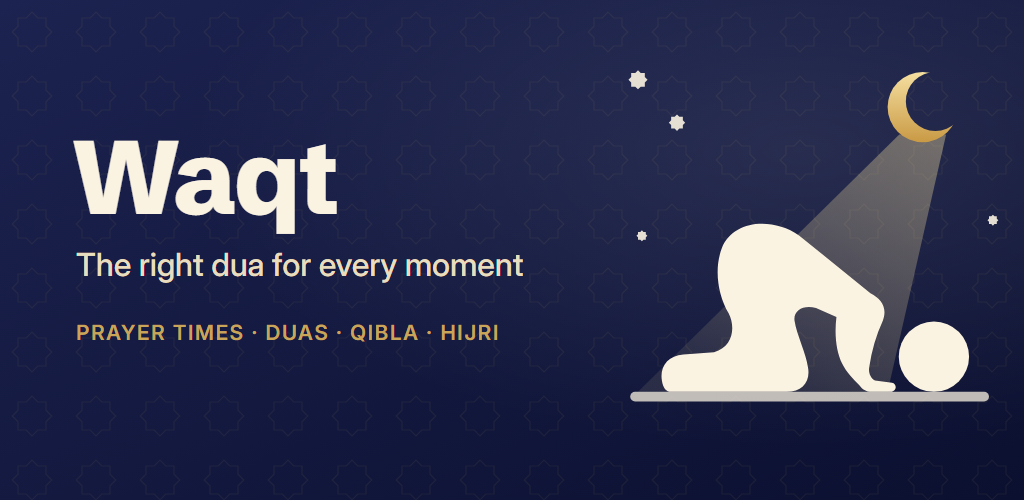
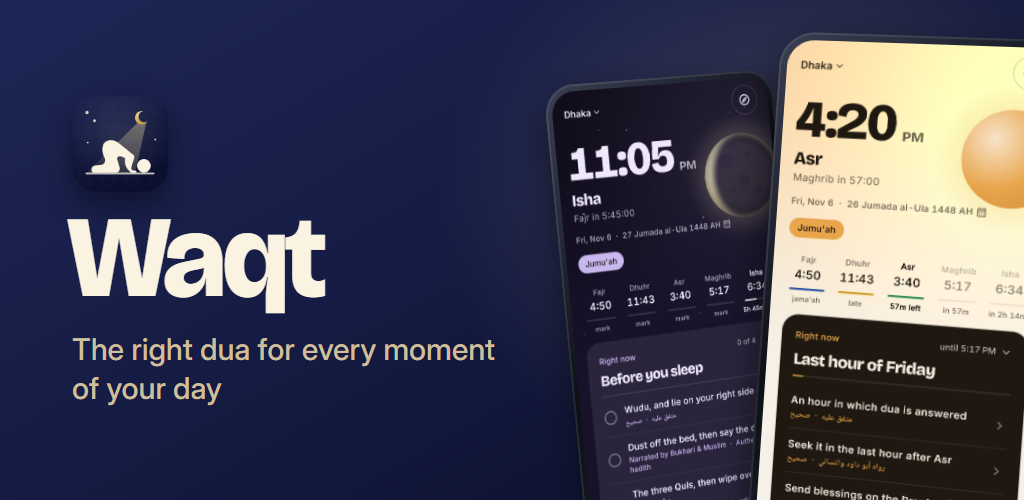
Play Store art: Bricolage feature graphic and fresh screenshots with angled phones

diff --git a/tool/brand/store_screens.py b/tool/brand/store_screens.py
@@ -1,56 +1,107 @@
-"""Play Store phone screenshots: a caption over a real app screen (from the golden tests), 1080x1920.
+"""Play Store art: the feature graphic (1024x500) and phone screenshots (1080x1920), built around real
+app screens from the golden tests, some shown as angled 3D phones.
 
     flutter test --tags screenshots --update-goldens   # refresh the app screens first
     python tool/brand/store_screens.py
 
-Output: docs/store/screenshots/NN_name.png
+Output: docs/store/feature-graphic.png, docs/store/screenshots/NN_name.png
+The app icon is not touched here (see waqt_icon.py).
 """
 import sys
 from pathlib import Path
 
 sys.path.insert(0, str(Path(__file__).parent))
-from waqt_icon import ROOT, render, lattice, NAVY_TOP, NAVY_BOTTOM, CREAM, GOLD_LINE  # noqa: E402
+from waqt_icon import ROOT, render  # noqa: E402
 
 GOLDENS = ROOT / 'test/screenshots/goldens'
 OUT = ROOT / 'docs/store/screenshots'
+STORE = ROOT / 'docs/store'
 
+NIGHT = ('#1E2656', '#0A0E2A', '#FBF3E2', '#CDBF9C')  # top, bottom, title, subtitle
+DAWN = ('#F7E7C8', '#EFD3A6', '#1C1814', '#5E5240')
+
+# (title, subtitle, palette, layout, screens)
 SHOTS = [
-    ('12_now_last_third', 'The right dua', 'for the moment you are in'),
-    ('17_dua_sheet', 'Every hadith sourced', 'with its book, number and grade'),
-    ('11_today_timeline', 'Your whole day', 'every prayer and moment, in order'),
-    ('21_now_ramadan_qadr', 'Ramadan, made easy', 'suhoor, iftar, the last ten nights, Eid'),
-    ('30_qibla_turn', 'Find the Qibla', 'turn until it glows'),
-    ('22_counter', 'A tasbih that remembers', 'your count and today\'s total'),
-    ('63_calendar', 'Hijri calendar', 'with the days worth knowing'),
-    ('07_now_arabic_rtl', 'In seven languages', 'English, العربية, اردو, বাংলা and more'),
+    ('The right dua, right now', 'for the moment you are in', NIGHT, 'tilt', ['40_now_salah_ticks']),
+    ('Changes with the sky', 'from Fajr to the last third of the night', DAWN, 'pair', ['03_now_dhuhr', '12_now_last_third']),
+    ('Every hadith sourced', 'book, number and grade, every time', NIGHT, 'straight', ['17_dua_sheet']),
+    ('Track your salah, gently', 'one tap a prayer, no guilt', DAWN, 'pair', ['42_today_ring', '43_progress']),
+    ('Ramadan, made easy', 'suhoor, iftar and the last ten nights', NIGHT, 'tilt-r', ['21_now_ramadan_qadr']),
+    ('Find the Qibla', 'turn until it glows', NIGHT, 'straight', ['30_qibla_turn']),
+    ('A tasbih that remembers', 'your count and today\'s total', DAWN, 'tilt', ['22_counter']),
+    ('In seven languages', 'English, العربية, اردو, বাংলা and more', NIGHT, 'pair', ['07_now_arabic_rtl', '30_now_bn']),
 ]
 
 
-def frame(img: Path, title: str, sub: str) -> str:
-    inter = (ROOT / 'assets/fonts/Inter.ttf').as_uri()
-    disp = (ROOT / 'assets/fonts/SchibstedGrotesk.ttf').as_uri()
-    naskh = (ROOT / 'assets/fonts/NotoNaskhArabic.ttf').as_uri()
-    nast = (ROOT / 'assets/fonts/NotoNastaliqUrdu.ttf').as_uri()
-    beng = (ROOT / 'assets/fonts/NotoSansBengali.ttf').as_uri()
-    w, h = 702, 1520
-    return f'''<div style="position:relative;width:1080px;height:1920px;overflow:hidden;
-  background:linear-gradient(160deg,{NAVY_TOP},{NAVY_BOTTOM});font-family:Inter,Naskh,Nast,Beng">
-<style>
-@font-face{{font-family:Inter;src:url("{inter}")}}@font-face{{font-family:Disp;src:url("{disp}")}}
-@font-face{{font-family:Naskh;src:url("{naskh}")}}@font-face{{font-family:Nast;src:url("{nast}")}}@font-face{{font-family:Beng;src:url("{beng}")}}
-</style>
-<svg width="1080" height="1920" viewBox="0 0 1080 1920" style="position:absolute;inset:0">{lattice(GOLD_LINE, .07, -32, 1150, -32, 1990)}</svg>
-<div style="position:absolute;left:0;right:0;top:120px;text-align:center;color:{CREAM};font-family:Disp,Naskh;font-weight:800;font-size:76px;letter-spacing:-2px">{title}</div>
-<div style="position:absolute;left:0;right:0;top:222px;text-align:center;color:#D9CBA6;font-size:38px;font-weight:500">{sub}</div>
-<img src="{img.as_uri()}" style="position:absolute;left:{(1080 - w) // 2}px;top:330px;width:{w}px;height:{h}px;border-radius:56px;
-  box-shadow:0 30px 80px rgba(0,0,0,.45);outline:10px solid rgba(255,255,255,.08)">
-</div>'''
+def fonts() -> str:
+    f = lambda n: (ROOT / f'assets/fonts/{n}.ttf').as_uri()  # noqa: E731
+    return (f'<style>.r div{{width:auto;height:auto}}@font-face{{font-family:Disp;src:url("{f("BricolageGrotesque")}")}}'
+            f'@font-face{{font-family:Inter;src:url("{f("Inter")}")}}'
+            f'@font-face{{font-family:Naskh;src:url("{f("NotoNaskhArabic")}")}}'
+            f'@font-face{{font-family:Nast;src:url("{f("NotoNastaliqUrdu")}")}}'
+            f'@font-face{{font-family:Beng;src:url("{f("NotoSansBengali")}")}}</style>')
+
+
+def phone(name: str, w: int, x: int, y: int, transform: str = '', z: int = 1, shadow: float = .45) -> str:
+    """A phone with a thin dark bezel showing one app screen; `transform` gives the 3D angle."""
+    h = round(w * 2532 / 1170)
+    b = round(w * .028)
+    return (f'<div style="position:absolute;left:{x}px;top:{y}px;width:{w + 2 * b}px;height:{h + 2 * b}px;z-index:{z};'
+            f'transform:{transform or "none"};transform-origin:50% 50%;border-radius:{round(w * .13)}px;'
+            f'background:linear-gradient(135deg,#3A3F52,#0E1018 40%,#262A38);padding:{b}px;box-sizing:border-box;'
+            f'box-shadow:0 {round(w * .06)}px {round(w * .16)}px rgba(0,0,0,{shadow}),'
+            f'inset 0 0 0 2px rgba(255,255,255,.10)">'
+            f'<img src="{(GOLDENS / f"{name}.png").as_uri()}" style="display:block;width:{w}px;height:{h}px;'
+            f'border-radius:{round(w * .13) - b}px"></div>')
+
+
+def frame(title: str, sub: str, pal, layout: str, screens) -> str:
+    top, bottom, ink, soft = pal
+    persp = 'perspective:2600px;'
+    if layout == 'straight':
+        body = phone(screens[0], 640, 200, 380)
+    elif layout in ('tilt', 'tilt-r'):
+        s = -1 if layout == 'tilt' else 1
+        body = phone(screens[0], 640, 200, 400, f'rotateY({s * 16}deg) rotateX(5deg) rotateZ({-s * 2}deg)')
+    else:  # pair: back phone angled one way, front phone the other
+        body = (phone(screens[0], 520, 70, 520, 'rotateY(18deg) rotateZ(-5deg) translateZ(-120px)', 1, .35)
+                + phone(screens[1], 540, 470, 410, 'rotateY(-14deg) rotateZ(3deg)', 2))
+    glow = 'rgba(255,236,190,.16)' if pal is NIGHT else 'rgba(255,255,255,.55)'
+    return f'''{fonts()}<div class="r"><div style="position:relative;width:1080px;height:1920px;overflow:hidden;
+  background:radial-gradient(900px 700px at 50% 62%,{glow},transparent 70%),linear-gradient(170deg,{top},{bottom});
+  font-family:Inter,Naskh,Nast,Beng">
+<div style="position:absolute;left:80px;right:80px;top:118px;text-align:center;color:{ink};font-family:Disp,Naskh;
+  font-weight:800;font-size:84px;line-height:1.02;letter-spacing:-2.5px;font-variation-settings:'opsz' 96">{title}</div>
+<div style="position:absolute;left:80px;right:80px;top:226px;text-align:center;color:{soft};font-size:38px;font-weight:500">{sub}</div>
+<div style="position:absolute;inset:0;{persp}">{body}</div>
+</div></div>'''
+
+
+def feature_graphic() -> str:
+    top, bottom, ink, soft = NIGHT
+    icon = (STORE / 'play-icon-512.png').as_uri()
+    phones = (phone('06_now_night', 250, 590, 70, 'rotateY(22deg) rotateZ(-6deg) translateZ(-80px)', 1, .5)
+              + phone('40_now_salah_ticks', 270, 760, 36, 'rotateY(-18deg) rotateZ(4deg)', 2, .55))
+    return f'''{fonts()}<div class="r"><div style="position:relative;width:1024px;height:500px;overflow:hidden;
+  background:radial-gradient(520px 420px at 78% 40%,rgba(255,236,190,.18),transparent 70%),linear-gradient(150deg,{top},{bottom});
+  font-family:Inter">
+<img src="{icon}" style="position:absolute;left:72px;top:96px;width:96px;height:96px;border-radius:24px;
+  box-shadow:0 12px 30px rgba(0,0,0,.4)">
+<div style="position:absolute;left:66px;top:200px;color:{ink};font-family:Disp;font-weight:800;font-size:116px;
+  letter-spacing:-4px;line-height:1;font-variation-settings:'opsz' 96">Waqt</div>
+<div style="position:absolute;left:72px;top:330px;width:440px;color:{soft};font-size:30px;font-weight:500;line-height:1.3">
+  The right dua for every moment of your day</div>
+<div style="position:absolute;inset:0;perspective:1800px">{phones}</div>
+</div></div>'''
 
 
 def main():
     OUT.mkdir(parents=True, exist_ok=True)
-    for i, (name, title, sub) in enumerate(SHOTS, 1):
-        render(frame(GOLDENS / f'{name}.png', title, sub), OUT / f'{i:02d}_{name}.png', 1080, 1920, transparent=False)
+    for old in OUT.glob('*.png'):
+        old.unlink()
+    render(feature_graphic(), STORE / 'feature-graphic.png', 1024, 500, transparent=False)
+    for i, (title, sub, pal, layout, screens) in enumerate(SHOTS, 1):
+        render(frame(title, sub, pal, layout, screens), OUT / f'{i:02d}_{screens[0]}.png', 1080, 1920, transparent=False)
 
 
 if __name__ == '__main__':

diff --git a/tool/brand/waqt_icon.py b/tool/brand/waqt_icon.py
@@ -10,7 +10,6 @@ Outputs
   android/app/src/main/res/mipmap-*/          legacy + adaptive launcher PNGs
   android/app/src/main/res/drawable-*/        splash mark + notification icon
   docs/store/play-icon-512.png               Play Console icon
-  docs/store/feature-graphic.png             Play Console feature graphic (1024x500)
   web/icons/*, web/favicon.png               web app icons
 """
 import math
@@ -223,7 +222,7 @@ def main():
     masters = {
         'waqt-icon.svg': full_icon(), 'adaptive-background.svg': adaptive_background(),
         'adaptive-foreground.svg': adaptive_foreground(), 'monochrome.svg': monochrome(),
-        'splash-mark.svg': splash_mark(), 'notification.svg': notification_icon(), 'feature-graphic.svg': feature_graphic(),
+        'splash-mark.svg': splash_mark(), 'notification.svg': notification_icon(),
     }
     for name, text in masters.items():
         (BRAND / name).write_text(text, encoding='utf-8')
@@ -245,7 +244,6 @@ def main():
                      ('icons/Icon-maskable-192.png', 192), ('icons/Icon-maskable-512.png', 512)]:
         render(masters['waqt-icon.svg'], web / name, px, px, transparent=False)
     render(masters['waqt-icon.svg'], web / 'favicon.png', 32, 32, rounded='22%')
-    render(masters['feature-graphic.svg'], STORE / 'feature-graphic.png', 1024, 500, transparent=False)
 
 
 if __name__ == '__main__':

diff --git a/docs/play-store-listing.md b/docs/play-store-listing.md
@@ -47,8 +47,8 @@ English, العربية, اردو, বাংলা, Bahasa Indonesia, Türkçe a
 | Feature graphic | `docs/store/feature-graphic.png` | 1024×500 PNG |
 | Phone screenshots | `docs/store/screenshots/01…08_*.png` | 1080×1920, upload in order |
 
-Regenerate: `python tool/brand/waqt_icon.py` (icon, feature graphic, Android icons) and
-`flutter test --tags screenshots --update-goldens && python tool/brand/store_screens.py` (screenshots).
+Regenerate: `python tool/brand/waqt_icon.py` (icon, Android icons) and
+`flutter test --tags screenshots --update-goldens && python tool/brand/store_screens.py` (feature graphic and screenshots).
 
 ## App content answers
 - **Privacy policy:** URL above.
